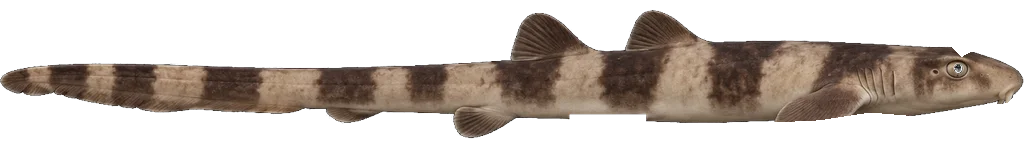
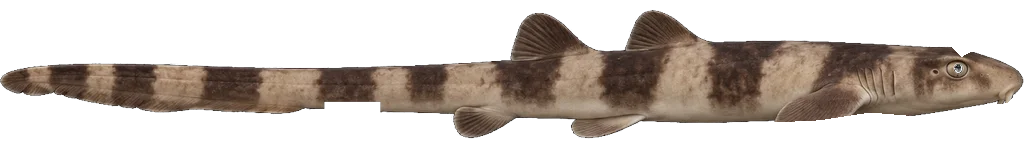
Photo fish: smooth resampled outline (no facets), no_tail option, extra fin fragments erased from the shark card, smaller eye

Changed region(s): [[0.5312, 0.7044, 0.6562, 0.8805], [0.3125, 0.6289, 0.375, 0.7799]]

diff --git a/src/art/photofish.ts b/src/art/photofish.ts
@@ -26,10 +26,23 @@ for (const J of Object.values(files)) {
     delete P.fins; delete P.finGrid;
     const pedU = 1 - 1 / A.tlOverSl, SLc = 1 - pedU, U = (s: number) => pedU + SLc * (1 - s / 100), Wd = (x: number) => x / 100 * SLc;
     const topPts = d.stations.map((s: number, i: number) => [U(s), -Wd(d.top[i])] as [number, number]), botPts = d.stations.map((s: number, i: number) => [U(s), Wd(d.bottom[i])] as [number, number]);
-    Object.assign(P, { pedU, outline: [...topPts, ...botPts.reverse()] });
+    // measured stations are sparse: smooth them lightly and resample with a clamped cubic so the head and tail are curves, not facets
+    const smoothCurve = (pts: [number, number][], n = 120) => {
+      const pp = pts.map((q, i) => i > 1 && i < pts.length - 2 ? [q[0], (pts[i - 1][1] + 2 * q[1] + pts[i + 1][1]) / 4] as [number, number] : q).sort((a, b) => a[0] - b[0]);
+      const m = pp.map((_q, i) => { const a0 = pp[Math.max(0, i - 1)], b0 = pp[Math.min(pp.length - 1, i + 1)]; return (b0[1] - a0[1]) / ((b0[0] - a0[0]) || 1); });
+      const out: [number, number][] = [];
+      for (let k = 0; k < n; k++) {
+        const u = pp[0][0] + (pp[pp.length - 1][0] - pp[0][0]) * k / (n - 1); let i = 0; while (i < pp.length - 2 && pp[i + 1][0] < u) i++;
+        const h = pp[i + 1][0] - pp[i][0] || 1, t = (u - pp[i][0]) / h, t2 = t * t, t3 = t2 * t;
+        out.push([u, (2 * t3 - 3 * t2 + 1) * pp[i][1] + (t3 - 2 * t2 + t) * h * m[i] + (-2 * t3 + 3 * t2) * pp[i + 1][1] + (t3 - t2) * h * m[i + 1]]);
+      }
+      return out;
+    };
+    const topS = smoothCurve(topPts), botS = smoothCurve(botPts);
+    Object.assign(P, { pedU, outline: [...topS, ...botS.reverse()] });
     P.thick = A.thickness.fit.thick * (R.thickx ?? 1); P.pedT = A.thickness.fit.pedT;
     if (R.measuredWidth) P.halfWidth = d.stations.map((s: number, i: number) => [U(s), Wd(A.thickness.halfWidthPctSL[i]) * (R.thickx ?? 1)] as [number, number]).sort((a: number[], b: number[]) => a[0] - b[0]);
-    P.tail = { ...P.tail, h: Wd(Math.max(...F.caudal.outline.map((c: number[]) => (c[1] + c[2]) / 2))) };
+    P.tail = { ...P.tail, h: R.noTail ? 0.0005 : Wd(Math.max(...F.caudal.outline.map((c: number[]) => (c[1] + c[2]) / 2))) };
     if (F.dorsal) P.dorsal = { ...P.dorsal, at: U(F.dorsal.baseStartPctSL), len: Wd(F.dorsal.baseEndPctSL - F.dorsal.baseStartPctSL), h: Wd(F.dorsal.maxHeightPctSL) };
     if (F.dorsal2) P.dorsal2 = { ...P.dorsal2, at: U(F.dorsal2.baseStartPctSL), len: Wd(F.dorsal2.baseEndPctSL - F.dorsal2.baseStartPctSL), h: Wd(F.dorsal2.maxHeightPctSL) };
     if (F.anal) P.anal = { ...P.anal, at: U(F.anal.baseStartPctSL), len: Wd(F.anal.baseEndPctSL - F.anal.baseStartPctSL), h: Wd(F.anal.maxHeightPctSL), rake: 0.85 };

diff --git a/scripts/fish-build.py b/scripts/fish-build.py
@@ -93,7 +93,7 @@ if er:
 e = spec['eye']
 photo = {'art': ID, 'plan': spec.get('plan', 'oscar'), 'sx': round(sx, 1), 'sl': round(sl, 1), 'ax': round(ax, 1), 'eye': e,
          'pec': spec.get('pectoral'), 'pelvic': spec.get('pelvic'),
-         'proj': {'fk': round(TL, 1), 'y0': spec.get('fy0', round((ax - e[1]) / TL, 4))}, 'thickx': spec.get('thickx'), 'measuredWidth': bool(spec.get('measured_width')), 'aspect': asp, 'finImg': bool(er)}
+         'proj': {'fk': round(TL, 1), 'y0': spec.get('fy0', round((ax - e[1]) / TL, 4))}, 'thickx': spec.get('thickx'), 'noTail': bool(spec.get('no_tail')), 'measuredWidth': bool(spec.get('measured_width')), 'aspect': asp, 'finImg': bool(er)}
 A['render'] = {'note': 'built by scripts/fish-build.py from ' + os.path.basename(sys.argv[1]), 'photo': photo, 'fit': fit}
 J['art'] = ID
 json.dump(J, open(os.path.join(ROOT, 'src', 'data', 'fishart', ID + '.anatomy.json'), 'w', encoding='utf8'), indent=1)
